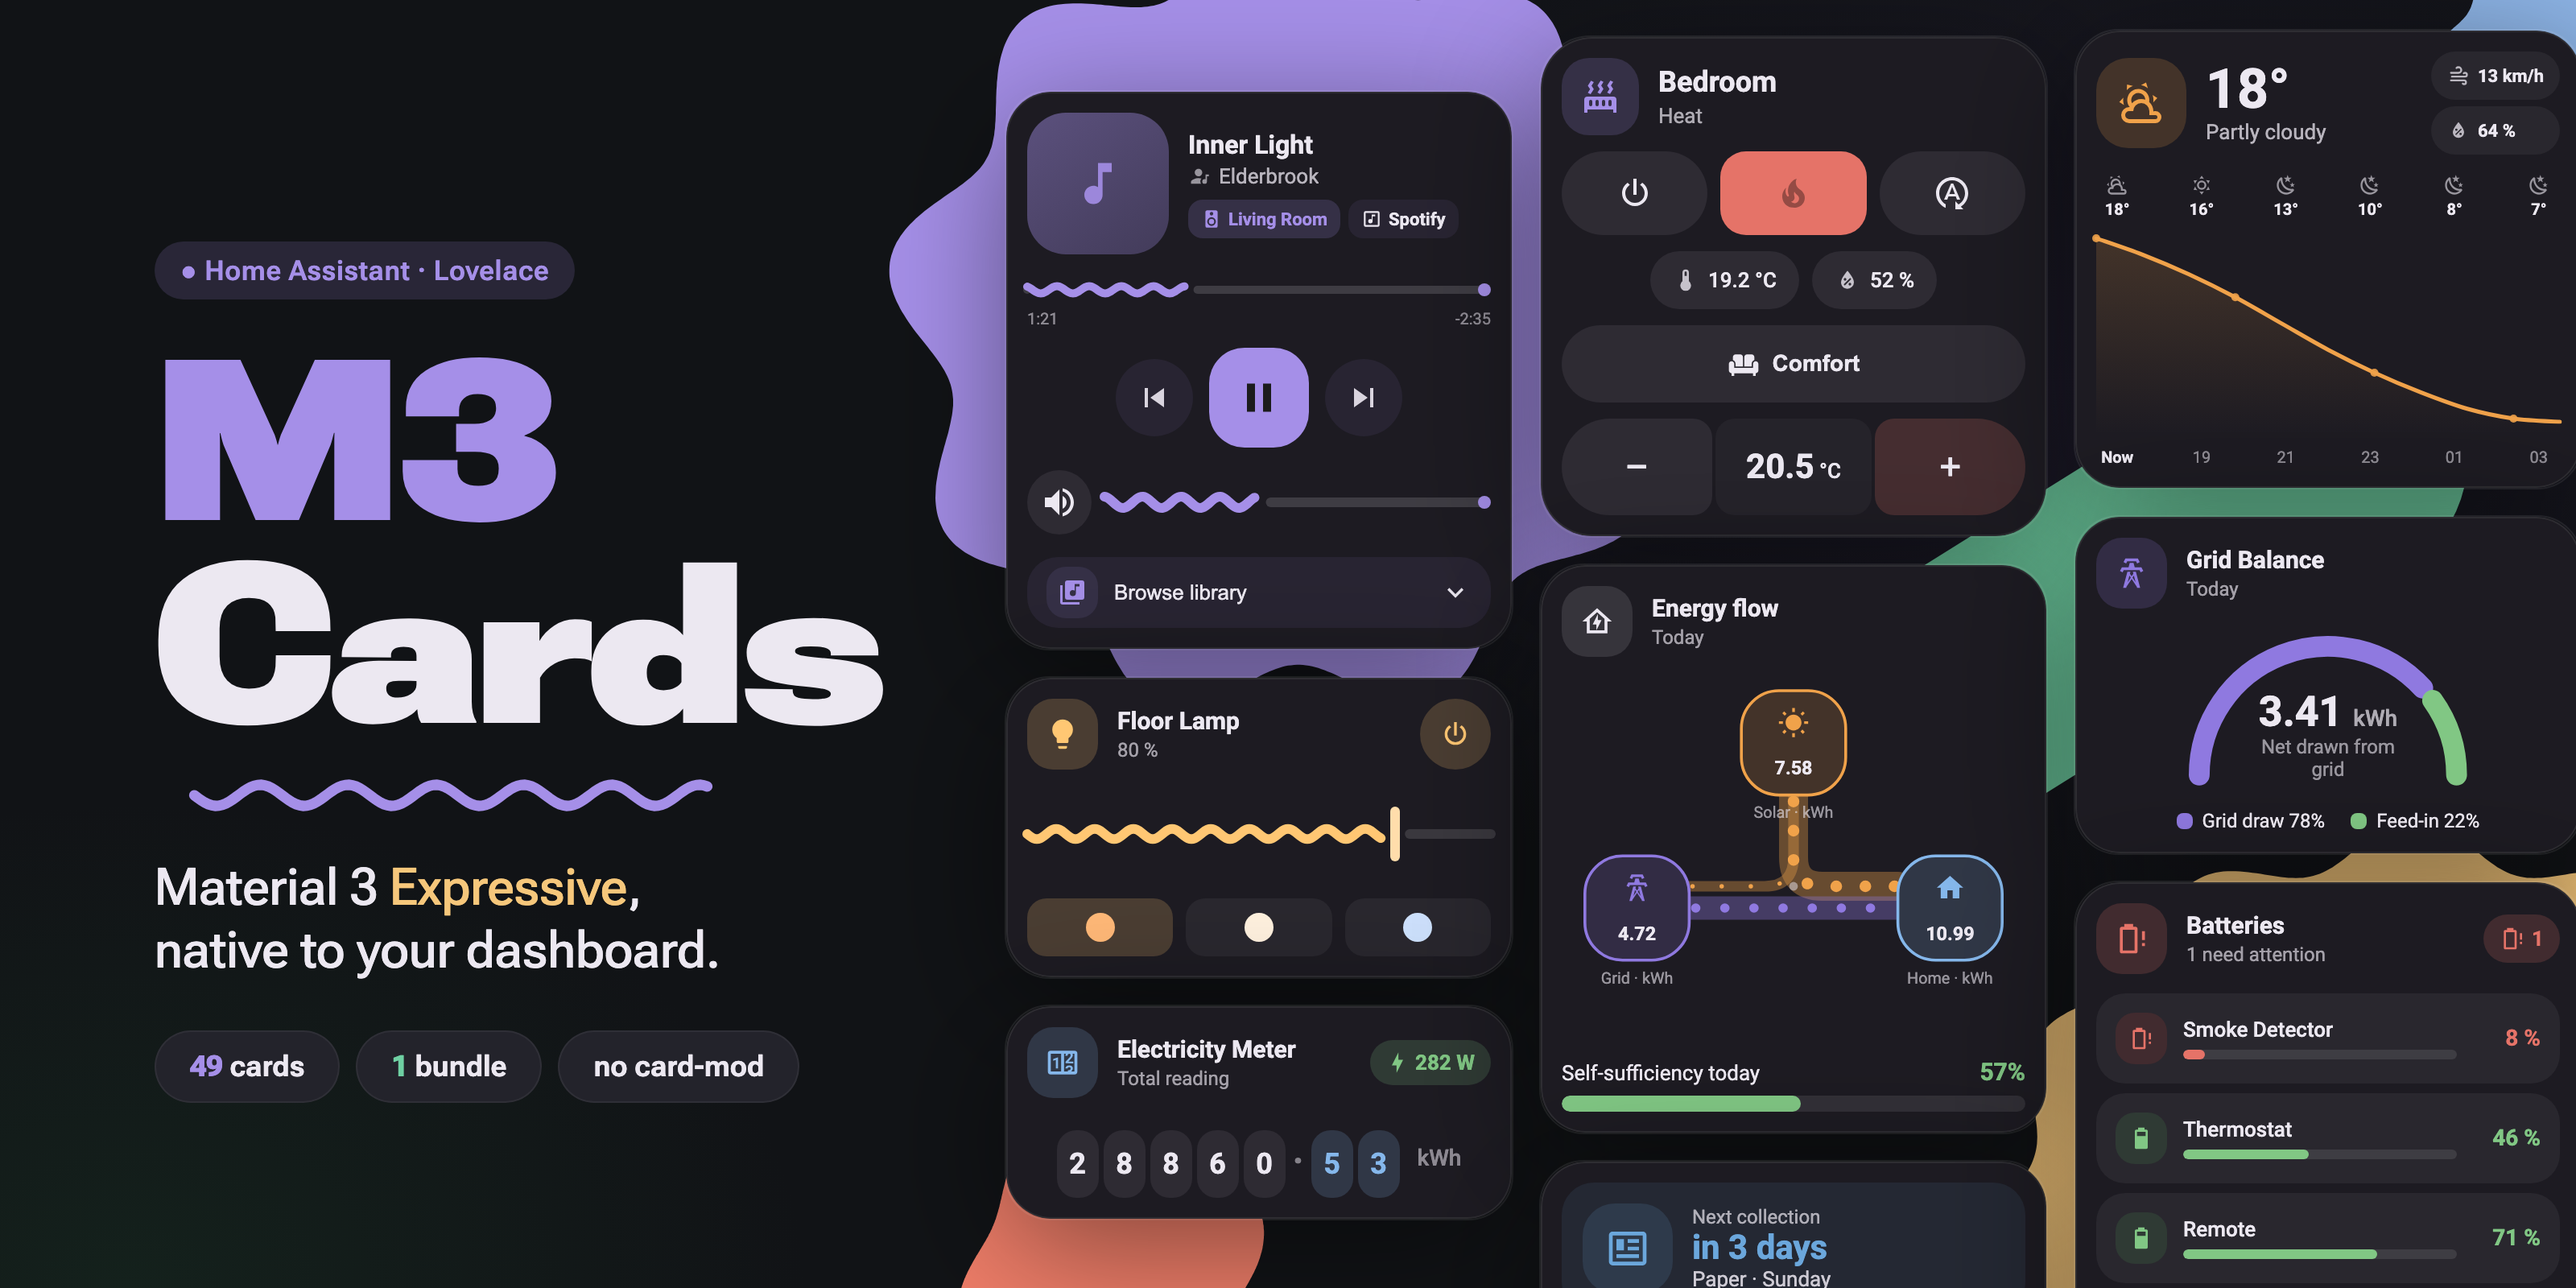
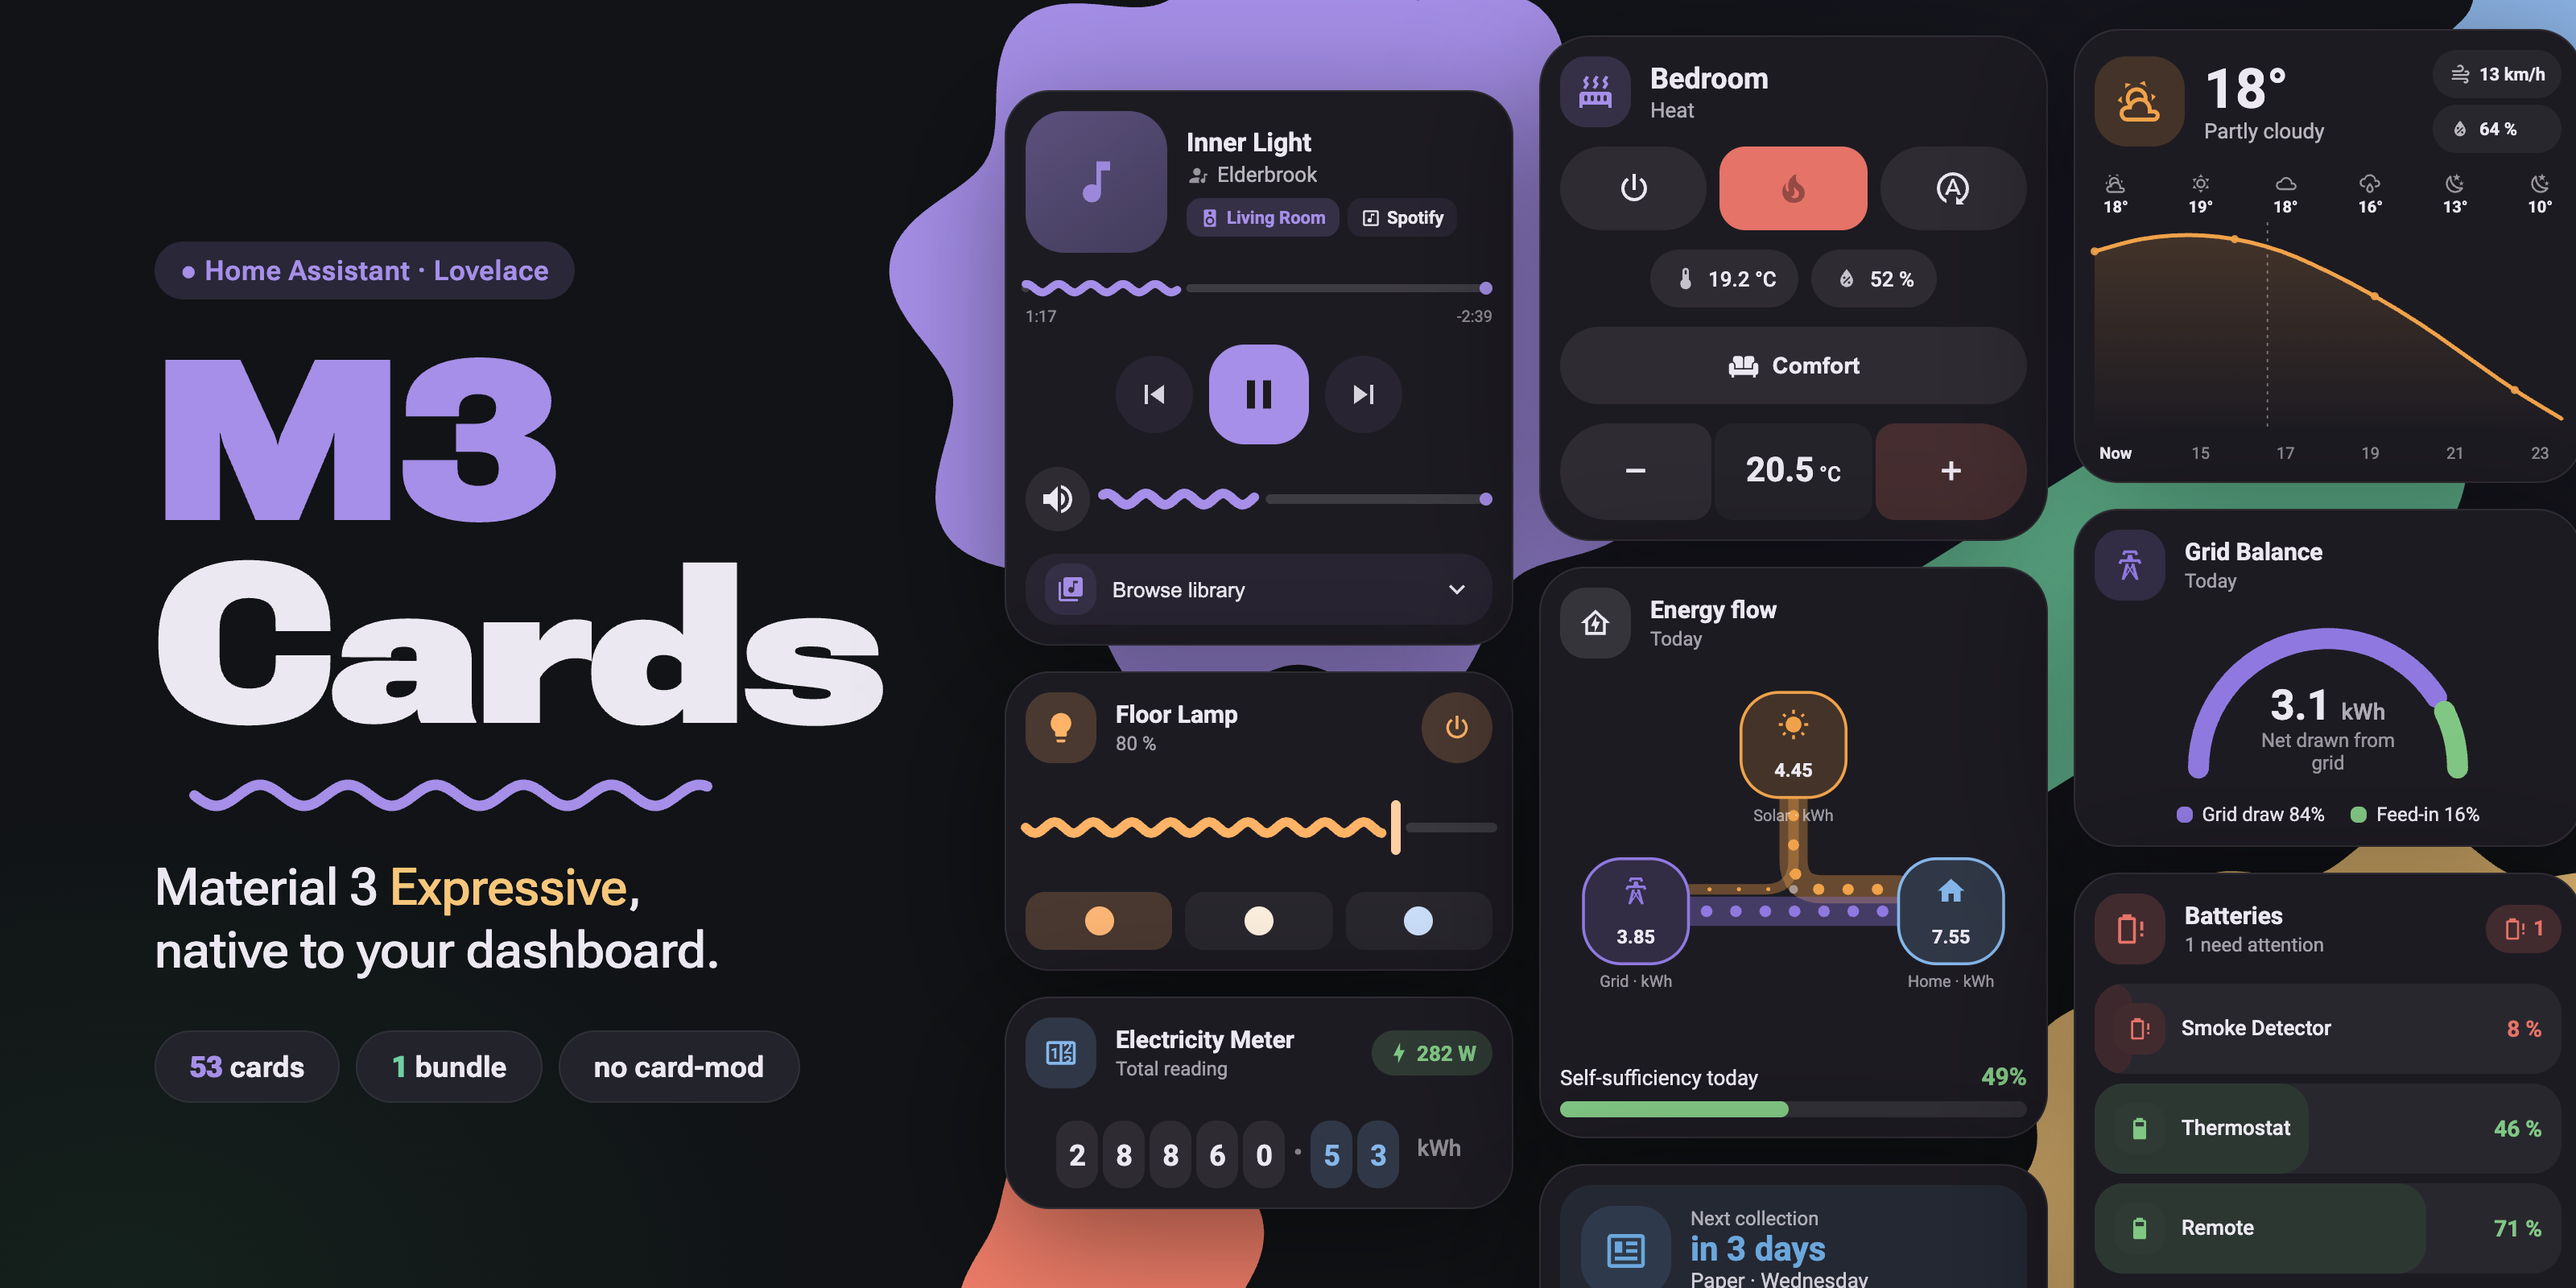
README: the 2.7 release image, and the hero with 53 cards

diff --git a/docs/README.template.md b/docs/README.template.md
@@ -12,12 +12,12 @@ TypeScript + [Lit](https://lit.dev), **without** any dependency on
 (`m3-cards.js`) registers **{{CARD_COUNT}} cards**, all sharing one design language.
 
 <p align="center">
-  <a href="https://github.com/j0sp0r/m3-cards/releases/download/v2.6.0/m3-cards-2.6.mp4"><img src="docs/images/release-2.6.jpg" alt="What's new in 2.6: the detail view beside Home Assistant's own history dialog" width="880"></a>
+  <a href="https://github.com/j0sp0r/m3-cards/releases/tag/v2.7.0"><img src="docs/images/release-2.7.jpg" alt="What's new in 2.7: the multi graph card, the vehicle card and the compact presence card" width="880"></a>
 </p>
 
 <p align="center"><sub>
-  What's new in 2.6, with sound, as a 38-second video:
-  <a href="https://github.com/j0sp0r/m3-cards/releases/download/v2.6.0/m3-cards-2.6.mp4">landscape</a> ·
+  What's new in 2.7: <a href="https://github.com/j0sp0r/m3-cards/releases/tag/v2.7.0">the release notes</a> ·
+  2.6 as a video: <a href="https://github.com/j0sp0r/m3-cards/releases/download/v2.6.0/m3-cards-2.6.mp4">landscape</a> ·
   <a href="https://github.com/j0sp0r/m3-cards/releases/download/v2.6.0/m3-cards-2.6-phone.mp4">phone</a>
 </sub></p>
 

diff --git a/README.md b/README.md
@@ -12,12 +12,12 @@ TypeScript + [Lit](https://lit.dev), **without** any dependency on
 (`m3-cards.js`) registers **53 cards**, all sharing one design language.
 
 <p align="center">
-  <a href="https://github.com/j0sp0r/m3-cards/releases/download/v2.6.0/m3-cards-2.6.mp4"><img src="docs/images/release-2.6.jpg" alt="What's new in 2.6: the detail view beside Home Assistant's own history dialog" width="880"></a>
+  <a href="https://github.com/j0sp0r/m3-cards/releases/tag/v2.7.0"><img src="docs/images/release-2.7.jpg" alt="What's new in 2.7: the multi graph card, the vehicle card and the compact presence card" width="880"></a>
 </p>
 
 <p align="center"><sub>
-  What's new in 2.6, with sound, as a 38-second video:
-  <a href="https://github.com/j0sp0r/m3-cards/releases/download/v2.6.0/m3-cards-2.6.mp4">landscape</a> ·
+  What's new in 2.7: <a href="https://github.com/j0sp0r/m3-cards/releases/tag/v2.7.0">the release notes</a> ·
+  2.6 as a video: <a href="https://github.com/j0sp0r/m3-cards/releases/download/v2.6.0/m3-cards-2.6.mp4">landscape</a> ·
   <a href="https://github.com/j0sp0r/m3-cards/releases/download/v2.6.0/m3-cards-2.6-phone.mp4">phone</a>
 </sub></p>
 
